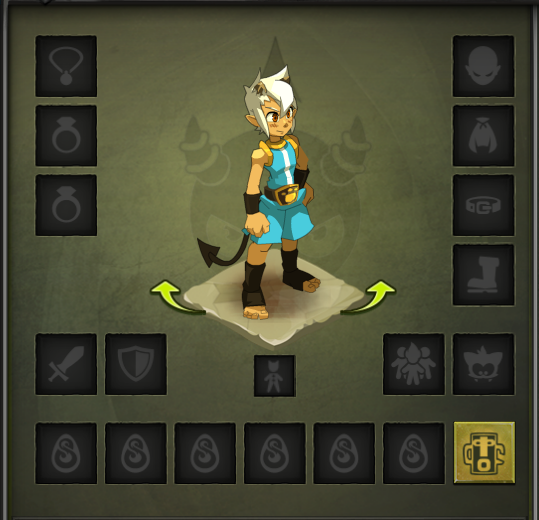
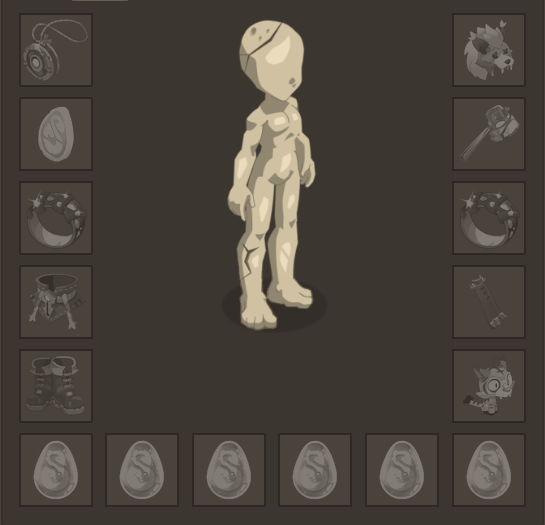
cambio de inventory.png a uno mas neutro

diff --git a/src/utils/equipmentImage.js b/src/utils/equipmentImage.js
@@ -1,30 +1,53 @@
 const { readPng, writePng, resizeNearest, drawImage } = require('./png');
 
+const BASE_CANVAS = { width: 539, height: 520 };
+
 const SLOT_POSITIONS = {
     0: { x: 35, y: 35, w: 62, h: 62 }, // Amuleto
     2: { x: 35, y: 105, w: 62, h: 62 }, // Anillo (izq.)
     4: { x: 35, y: 174, w: 62, h: 62 }, // Anillo (der.)
-    6: { x: 452, y: 35, w: 62, h: 62 }, // Sombrero
+    6: { x: 453, y: 35, w: 62, h: 62 }, // Sombrero
     7: { x: 453, y: 105, w: 62, h: 62 }, // Capa
     3: { x: 453, y: 174, w: 62, h: 62 }, // Cinturón
-    5: { x: 453, y: 243, w: 62, h: 62 }, // Botas
+    5: { x: 453, y: 244, w: 62, h: 62 }, // Botas
     1: { x: 35, y: 333, w: 62, h: 62 }, // Arma
     15: { x: 105, y: 333, w: 62, h: 62 }, // Escudo
-    7: { x: 244, y: 333, w: 62, h: 62 }, // Compañero
-    16: { x: 382, y: 333, w: 62, h: 62 }, // Montura
-    8: { x: 451, y: 333, w: 62, h: 62 }, // Mascota
+    17: { x: 253, y: 355, w: 43, h: 45 }, // Compañero
+    16: { x: 383, y: 333, w: 62, h: 62 }, // Montura
+    8: { x: 453, y: 333, w: 62, h: 62 }, // Mascota
+    18: { x: 453, y: 333, w: 62, h: 62 }, // Mascota viva
     9: { x: 35, y: 422, w: 62, h: 62 }, // Dofus 1
     10: { x: 105, y: 422, w: 62, h: 62 }, // Dofus 2
     11: { x: 174, y: 422, w: 62, h: 62 }, // Dofus 3
     12: { x: 244, y: 422, w: 62, h: 62 }, // Dofus 4
     13: { x: 313, y: 422, w: 62, h: 62 }, // Dofus 5
-    14: { x: 382, y: 422, w: 62, h: 62 }, // Dofus 6
+    14: { x: 383, y: 422, w: 62, h: 62 }, // Dofus 6
 };
+
+function getScaledSlotPositions(base) {
+    const scaleX = base.width / BASE_CANVAS.width;
+    const scaleY = base.height / BASE_CANVAS.height;
+
+    return Object.fromEntries(
+        Object.entries(SLOT_POSITIONS).map(([slotId, pos]) => [
+            slotId,
+            {
+                x: Math.round(pos.x * scaleX),
+                y: Math.round(pos.y * scaleY),
+                w: Math.round(pos.w * scaleX),
+                h: Math.round(pos.h * scaleY),
+            },
+        ])
+    );
+}
+
 async function buildEquipmentImage({ basePath, equipmentBySlot, resolveIconPath }) {
     const base = readPng(basePath);
     if (!base) return null;
 
-    for (const [slotIdStr, pos] of Object.entries(SLOT_POSITIONS)) {
+    const scaledPositions = getScaledSlotPositions(base);
+
+    for (const [slotIdStr, pos] of Object.entries(scaledPositions)) {
         const slotId = Number(slotIdStr);
         const it = equipmentBySlot?.[slotId];
         if (!it) continue;

diff --git a/src/commands/perfil/ui.js b/src/commands/perfil/ui.js
@@ -163,13 +163,13 @@ function buildProfileView({
 
     if (tab === 'stats') {
         embed
-            .setTitle(`📊 Stats de ${character.Name} (Nv. ${level})`)
+            .setTitle(`${character.Name} (Nv. ${level})`)
             .setDescription(statsBlock ?? 'Sin estadísticas.');
     } else if (tab === 'equipment') {
         embed
-            .setTitle(`🎒 Equipamiento de ${character.Name} (Nv. ${level})`)
+            .setTitle(`${character.Name} (Nv. ${level})`)
             .addFields({
-                name: '📦 Equipamiento',
+                name: '🎒 Equipamiento',
                 value: equipmentDetails || 'Sin equipamiento.',
                 inline: false,
             });

diff --git a/src/utils/objectEffectsSerializer.js b/src/utils/objectEffectsSerializer.js
@@ -222,9 +222,7 @@ function decorateEffect(effect) {
         case 6: {
             // Integer
             if (typeof effect.value === 'number') {
-                out.display = `${label} ${formatSigned(effect.value)}`;
-                // Si es un label de %, lo dejamos tal cual (ya incluye % en label)
-                // No añadimos % extra para no duplicar.
+                out.display = `${label} ${formatSigned(applyNegative(effect.value))}`;
             }
             return out;
         }
